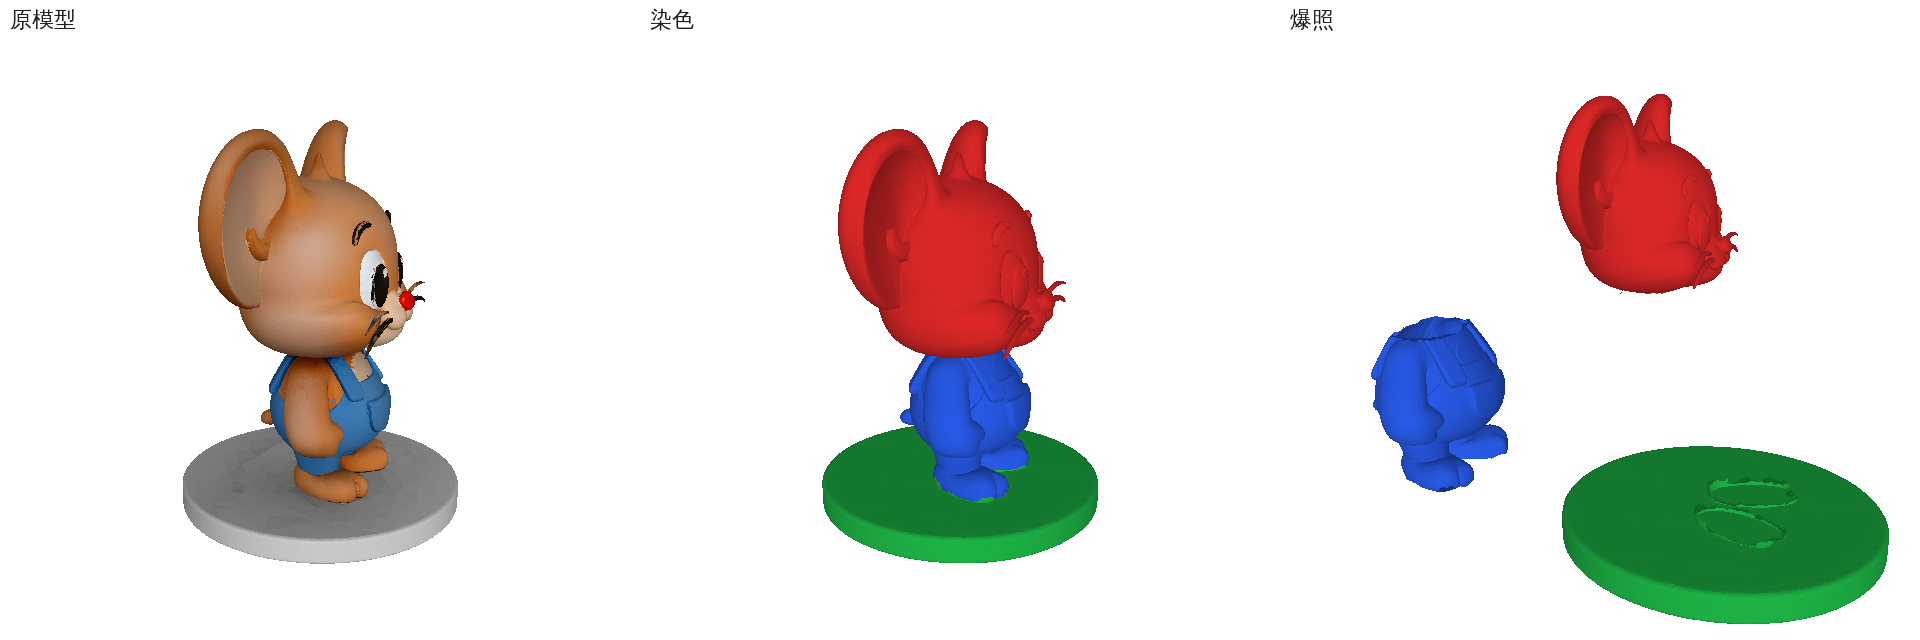
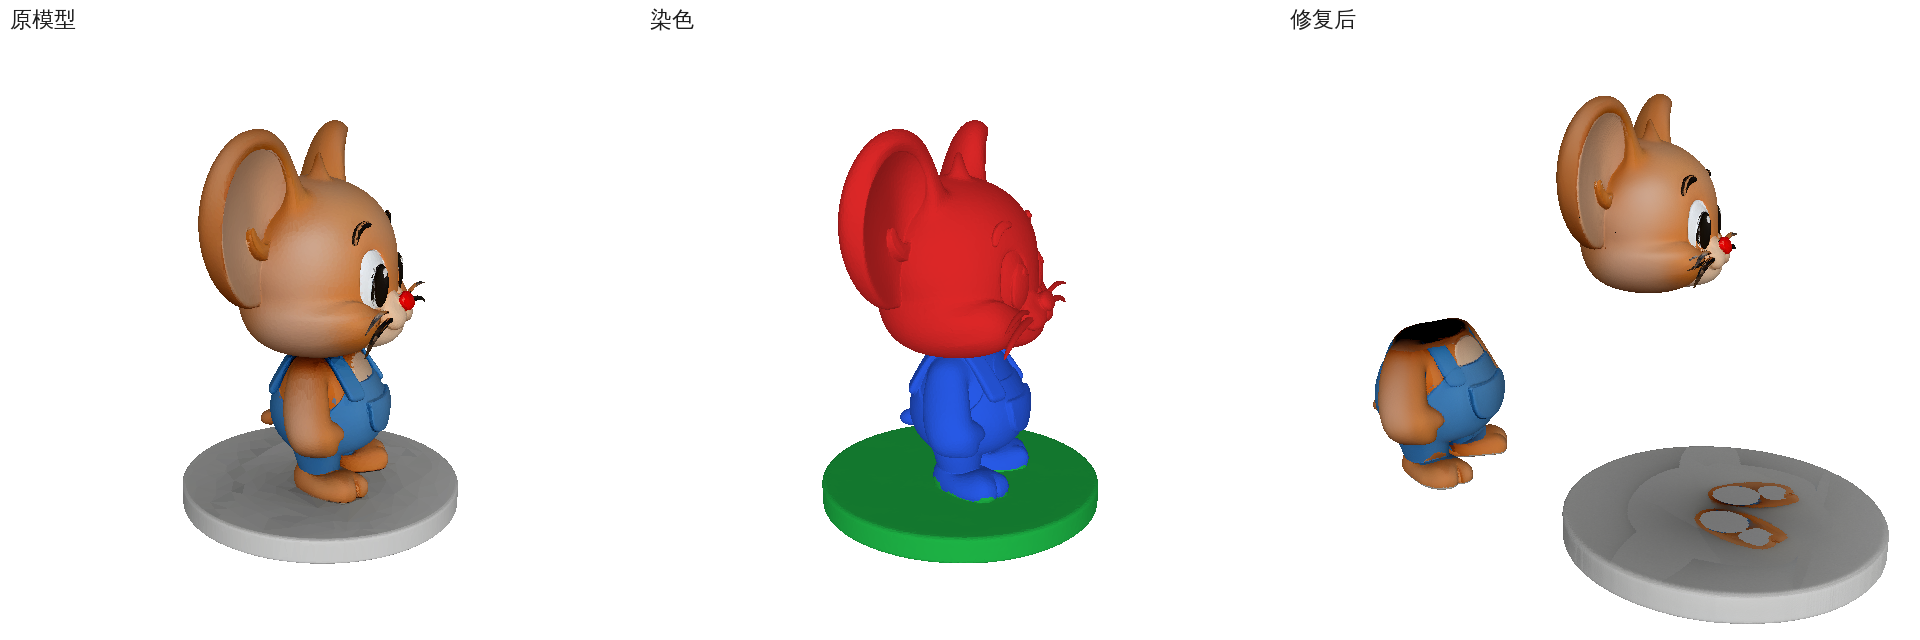
Show the repaired X-Part solids on the compare sheets, drop the weaker test rows, and add the coarse-split performance curve.

diff --git a/data_toolkit/render_compare_sheet.py b/data_toolkit/render_compare_sheet.py
@@ -1,4 +1,7 @@
-"""Three-panel sheet: original albedo, part stain, exploded split.
+"""Three-panel sheet: original albedo, part stain, exploded repaired solids.
+
+`--completed` is the X-Part (or otherwise closed) glb; the third panel pulls those
+solids apart. Without it the open split is exploded instead.
 
 parts.glb is in the source glTF frame; scene-graph transforms are baked first so a
 model that stores parts in local nodes does not come out on its side.
@@ -97,43 +100,66 @@ def caption(image, text):
     return image
 
 
-def render_sheet(source_glb, parts_glb, out_png, azimuth=20.0, elevation=15.0,
-                 explode=0.45, resolution=640, radius=2.3):
-    source_names, source_meshes = bake_nodes(trimesh.load(source_glb, process=False))
-    part_names, part_meshes = bake_nodes(trimesh.load(parts_glb, process=False))
+def has_texture(meshes):
+    return any(
+        getattr(getattr(item.visual, "material", None), "baseColorTexture", None) is not None
+        for item in meshes
+    )
 
-    source = trimesh.util.concatenate(source_meshes)
-    parts = trimesh.util.concatenate(part_meshes)
+
+def pack(meshes):
+    mesh = trimesh.util.concatenate(meshes)
     owner = np.concatenate(
-        [np.full(len(mesh.faces), index, dtype=np.int32)
-         for index, mesh in enumerate(part_meshes)])
-
-    albedo = np.concatenate([albedo_face_colors(mesh) for mesh in source_meshes])
+        [np.full(len(item.faces), index, dtype=np.int32)
+         for index, item in enumerate(meshes)])
     stain = LABEL_COLORS[owner % len(LABEL_COLORS)].astype(np.float32)
+    albedo = np.concatenate([albedo_face_colors(item) for item in meshes])
+    return mesh, owner, stain, albedo if has_texture(meshes) else stain
+
+
+def render_sheet(source_glb, parts_glb, out_png, azimuth=20.0, elevation=15.0,
+                 explode=0.45, resolution=640, radius=2.3, completed_glb=None):
+    _, source_meshes = bake_nodes(trimesh.load(source_glb, process=False))
+    part_names, part_meshes = bake_nodes(trimesh.load(parts_glb, process=False))
+    source = trimesh.util.concatenate(source_meshes)
+    src_albedo = np.concatenate([albedo_face_colors(item) for item in source_meshes])
+    parts, part_owner, part_stain, _ = pack(part_meshes)
+
+    if completed_glb:
+        done_names, done_meshes = bake_nodes(trimesh.load(completed_glb, process=False))
+        done, done_owner, done_stain, done_color = pack(done_meshes)
+        explode_title = "修复后"
+    else:
+        done_names, done, done_owner, done_color = part_names, parts, part_owner, part_stain
+        explode_title = "爆照"
 
     src_vertices, _ = normalize_to_unit_cube(
         np.asarray(source.vertices) @ GLTF_TO_BLENDER.T)
     part_vertices, _ = normalize_to_unit_cube(
         np.asarray(parts.vertices) @ GLTF_TO_BLENDER.T)
+    done_vertices, _ = normalize_to_unit_cube(
+        np.asarray(done.vertices) @ GLTF_TO_BLENDER.T)
     src_faces = np.asarray(source.faces)
     part_faces = np.asarray(parts.faces)
-    exploded = explode_vertices(part_vertices, part_faces, owner, explode)
+    done_faces = np.asarray(done.faces)
+    exploded = explode_vertices(done_vertices, done_faces, done_owner, explode)
 
     src_normals = np.asarray(source.face_normals) @ GLTF_TO_BLENDER.T
     part_normals = np.asarray(parts.face_normals) @ GLTF_TO_BLENDER.T
+    done_normals = np.asarray(done.face_normals) @ GLTF_TO_BLENDER.T
     cameras = camera_ring([azimuth], [elevation], radius)
     camera = cameras[0]
 
     panels = [
         ("original", paint(
             rasterize_face_ids(src_vertices, src_faces, cameras, CAMERA_ANGLE, resolution)[0],
-            albedo, src_normals, camera, resolution), "原模型"),
+            src_albedo, src_normals, camera, resolution), "原模型"),
         ("stain", paint(
             rasterize_face_ids(part_vertices, part_faces, cameras, CAMERA_ANGLE, resolution)[0],
-            stain, part_normals, camera, resolution), "染色"),
-        ("explode", paint(
-            rasterize_face_ids(exploded, part_faces, cameras, CAMERA_ANGLE, resolution)[0],
-            stain, part_normals, camera, resolution), "爆照"),
+            part_stain, part_normals, camera, resolution), "染色"),
+        ("repaired", paint(
+            rasterize_face_ids(exploded, done_faces, cameras, CAMERA_ANGLE, resolution)[0],
+            done_color, done_normals, camera, resolution), explode_title),
     ]
     images = [caption(Image.fromarray(canvas), title) for _, canvas, title in panels]
     sheet = Image.new("RGB", (resolution * 3, resolution), (255, 255, 255))
@@ -141,7 +167,7 @@ def render_sheet(source_glb, parts_glb, out_png, azimuth=20.0, elevation=15.0,
         sheet.paste(image, (index * resolution, 0))
     os.makedirs(os.path.dirname(os.path.abspath(out_png)) or ".", exist_ok=True)
     sheet.save(out_png)
-    print(f"saved {out_png} ({len(part_names)} parts: {', '.join(part_names)})")
+    print(f"saved {out_png} ({len(part_names)} parts / {len(done_names)} repaired)")
     return out_png
 
 
@@ -155,10 +181,13 @@ def main():
     parser.add_argument("--explode", type=float, default=0.45)
     parser.add_argument("--resolution", type=int, default=640)
     parser.add_argument("--radius", type=float, default=2.3)
+    parser.add_argument("--completed", default=None,
+                        help="Closed solids (X-Part xpart_parts.glb) for the third panel")
     args = parser.parse_args()
     render_sheet(os.path.abspath(args.source), os.path.abspath(args.parts),
                  os.path.abspath(args.out), args.azimuth, args.elevation, args.explode,
-                 args.resolution, args.radius)
+                 args.resolution, args.radius,
+                 os.path.abspath(args.completed) if args.completed else None)
 
 
 if __name__ == "__main__":

diff --git a/README.md b/README.md
@@ -73,7 +73,7 @@ metallic 系数修复、相机约定经渲染器实测标定（IoU 0.987）。
 
 ## 📷 效果
 
-过分割再命名的测试图：每行都是 **原模型 / 染色 / 爆照**。染色按命名后的部件上色，爆照把各件拉开。
+过分割再命名的测试图：每行都是 **原模型 / 染色 / 修复后**。染色按命名后的部件上色，第三格是 X-Part 封好的实体拉开。
 
 米奇（粗粒度，`head` / `torso` / `base`，胡子挂在头上）：
 
@@ -93,28 +93,16 @@ metallic 系数修复、相机约定经渲染器实测标定（IoU 0.987）。
   <img src="docs/images/robot_compare.png" width="100%"/>
 </p>
 
-小狗（粗粒度，`head` / `body` / `leg` / `tail`）：
-
-<p>
-  <img src="docs/images/dog_compare.png" width="100%"/>
-</p>
-
-椅子（粗粒度，`seat` / `backrest` / `leg`；扶手 SAM3 找不到就去掉了）：
-
-<p>
-  <img src="docs/images/chair_compare.png" width="100%"/>
-</p>
-
-长剑（粗粒度，`blade` / `guard`；握把 SAM3 找不到，并进刀身）：
-
-<p>
-  <img src="docs/images/sword_compare.png" width="100%"/>
-</p>
-
 置物架（粗粒度，`shelf board` / `frame`）：
 
 <p>
   <img src="docs/images/shelf_compare.png" width="100%"/>
+</p>
+
+粗粒度拆分（`--complete off`，每模型 7 次 `full_seg`）在 RTX 5090 上的墙钟曲线。每个锯齿是一次 `full_seg` 子进程：显存顶到 13–15 GB，进程退出立刻掉回接近 0。峰值显存 **15.24 GB**，管线 RSS 峰值 8.7 GB。
+
+<p>
+  <img src="docs/images/perf_curves.png" width="100%"/>
 </p>
 
 ## 🔨 部署

diff --git a/README_EN.md b/README_EN.md
@@ -78,8 +78,8 @@ conventions verified against the renderer (IoU 0.987).
 
 ## 📷 Results
 
-Over-segment then name. Each row is **original / stain / explode**: the stain is one colour
-per named part, the explode pulls those parts apart.
+Over-segment then name. Each row is **original / stain / repaired**: the stain is one
+colour per named part, the third panel explodes the closed X-Part solids.
 
 Mickey (coarse, `head` / `torso` / `base`; the moustache hangs on the head):
 
@@ -99,28 +99,18 @@ Robot (`head` / `torso` / `arm` / `hand` / `leg` / `foot`; the source is untextu
   <img src="docs/images/robot_compare.png" width="100%"/>
 </p>
 
-Dog (coarse, `head` / `body` / `leg` / `tail`):
-
-<p>
-  <img src="docs/images/dog_compare.png" width="100%"/>
-</p>
-
-Chair (coarse, `seat` / `backrest` / `leg`; `armrest` dropped — SAM3 never found it):
-
-<p>
-  <img src="docs/images/chair_compare.png" width="100%"/>
-</p>
-
-Sword (coarse, `blade` / `guard`; the grip had no mask and stayed on the blade):
-
-<p>
-  <img src="docs/images/sword_compare.png" width="100%"/>
-</p>
-
 Shelf (coarse, `shelf board` / `frame`):
 
 <p>
   <img src="docs/images/shelf_compare.png" width="100%"/>
+</p>
+
+Wall-clock of a coarse split (`--complete off`, 7 `full_seg` samples per model) on
+an RTX 5090. Each tooth is one `full_seg` child: VRAM peaks at 13–15 GB, then
+drops to ~0 when the process exits. Peak VRAM **15.24 GB**, peak pipeline RSS 8.7 GB.
+
+<p>
+  <img src="docs/images/perf_curves.png" width="100%"/>
 </p>
 
 ## 🔨 Deployment
